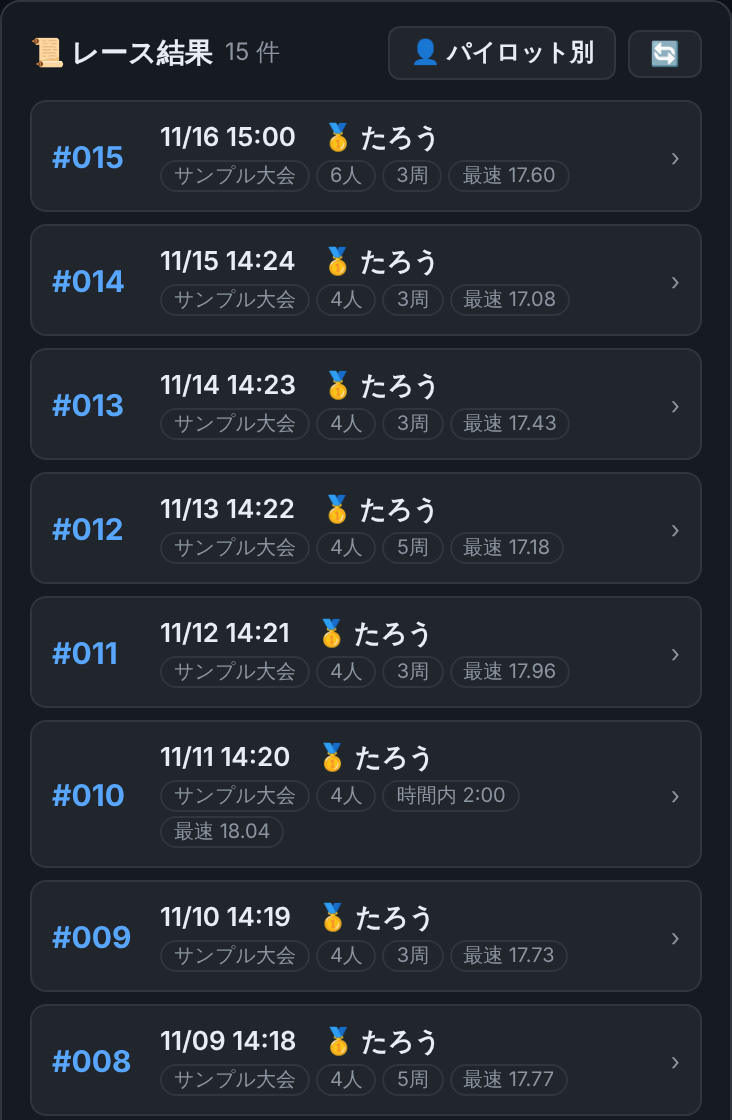
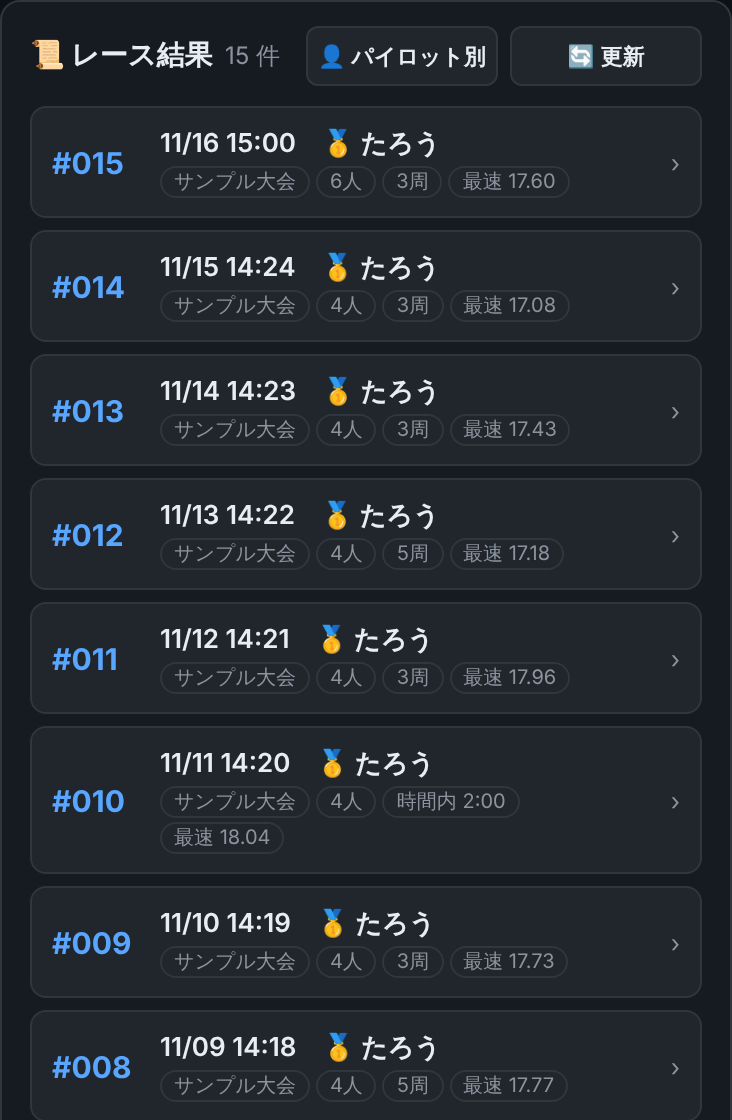
SD tab: 'other actions' always shown; Pilot stats and Refresh buttons the same size
- The format area is no longer folded (still small, at the bottom)
- '👤 パイロット別' and '🔄 更新' are 96x30 each, on phones too; the title
  stays on one line
- README list screenshot retaken

Claude-Session: https://claude.ai/code/session_01Q2Uv87iB1MVGM6bMxL52gL

diff --git a/data/index.html b/data/index.html
@@ -192,14 +192,14 @@ footer{background:var(--sf);border-top:1px solid var(--bd);text-align:center;pad
 /* SD race results */
 #resDetail,#resPilots{scroll-margin-top:110px}
 .sd-danger{margin-top:14px;border-top:1px solid var(--bd);padding-top:8px}
-.sd-danger summary{cursor:pointer;color:var(--muted);font-size:12px;list-style:none;user-select:none}
-.sd-danger summary::-webkit-details-marker{display:none}
-.sd-danger[open] summary{margin-bottom:8px}
+.sd-danger-title{color:var(--muted);font-size:12px;margin-bottom:8px}
 .sd-danger-body{display:flex;align-items:center;gap:10px;justify-content:space-between}
 .sd-erase-btn{flex-shrink:0;background:transparent;color:var(--err);border:1px solid var(--err);border-radius:6px;padding:4px 10px;font-size:12px;cursor:pointer}
 .res-head{display:flex;align-items:center;gap:6px;margin-bottom:10px;font-size:14px}
 .res-muted{color:var(--muted);font-size:12px}
 .res-btn{padding:4px 10px;font-size:12px}
+.res-head-btn{width:96px;height:30px;padding:0 4px;font-size:11px;white-space:nowrap;flex-shrink:0}
+.res-head b,.res-head .res-muted{white-space:nowrap}
 .res-item{display:flex;gap:10px;align-items:center;padding:9px 10px;border:1px solid var(--bd);border-radius:8px;margin-bottom:6px;background:var(--sf2);cursor:pointer}
 .res-item.on{border-color:var(--accent)}
 .res-item .no{font-weight:700;color:var(--accent);font-size:15px;min-width:44px}
@@ -611,9 +611,9 @@ details.adv summary{cursor:pointer;font-size:12px;color:var(--accent);margin-top
   <div class="card">
     <div class="res-head"><b>📜 レース結果</b><span id="resCount" class="res-muted"></span>
       <span style="flex:1"></span>
-      <button onclick="openPilotScan()" class="btn-secondary res-btn">👤 パイロット別</button>
-      <button onclick="refreshSdFiles()" class="btn-secondary res-btn">🔄</button></div>
-    <div id="resList"><p class="res-muted">「🔄」を押してください</p></div>
+      <button onclick="openPilotScan()" class="btn-secondary res-btn res-head-btn">👤 パイロット別</button>
+      <button onclick="refreshSdFiles()" class="btn-secondary res-btn res-head-btn">🔄 更新</button></div>
+    <div id="resList"><p class="res-muted">「🔄 更新」を押してください</p></div>
   </div>
   <div class="card" id="resDetail" style="display:none"></div>
   <div class="card" id="resPilots" style="display:none"></div>
@@ -621,16 +621,16 @@ details.adv summary{cursor:pointer;font-size:12px;color:var(--accent);margin-top
   <div class="card">
     <div class="res-head"><b>📁 ファイル</b></div>
     <div id="sdFileListWrap">
-      <p style="color:var(--muted);font-size:12px">「🔄」を押してください</p>
+      <p style="color:var(--muted);font-size:12px">「🔄 更新」を押してください</p>
     </div>
-    <!-- Kept folded and small, so it is not pressed by mistake. -->
-    <details class="sd-danger">
-      <summary>⚠ その他の操作</summary>
+    <!-- Small and set apart, so it is not pressed by mistake. -->
+    <div class="sd-danger">
+      <div class="sd-danger-title">⚠ その他の操作</div>
       <div class="sd-danger-body">
         <span class="res-muted">SDカードのファイルをすべて削除します（元に戻せません）</span>
         <button onclick="openSdErase()" class="sd-erase-btn">🧹 フォーマット…</button>
       </div>
-    </details>
+    </div>
   </div>
 </section>
 
